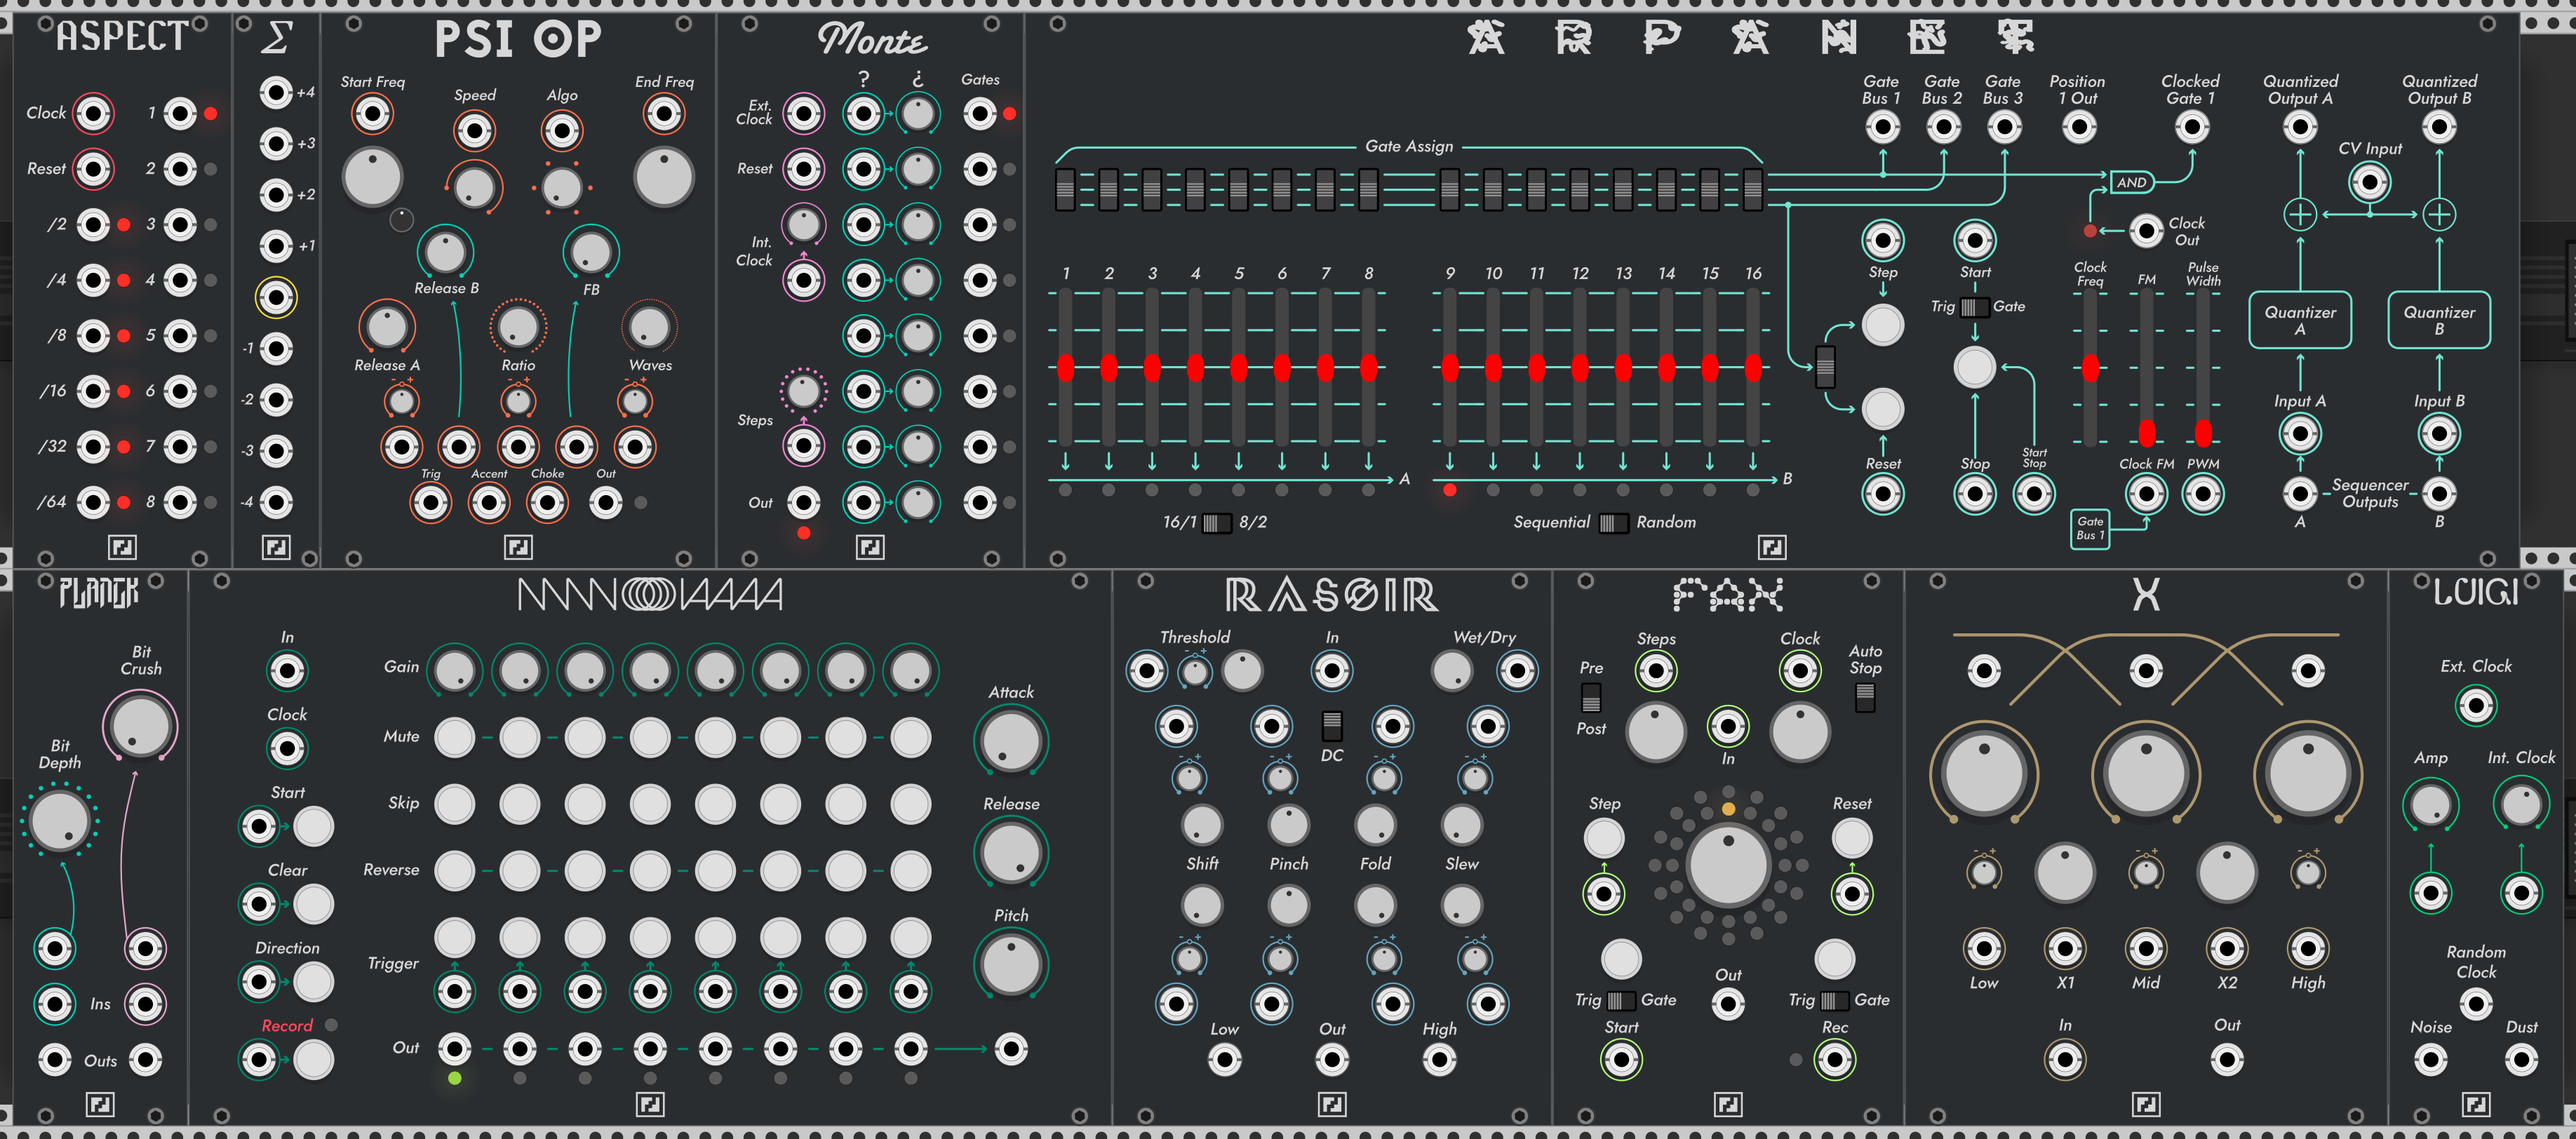
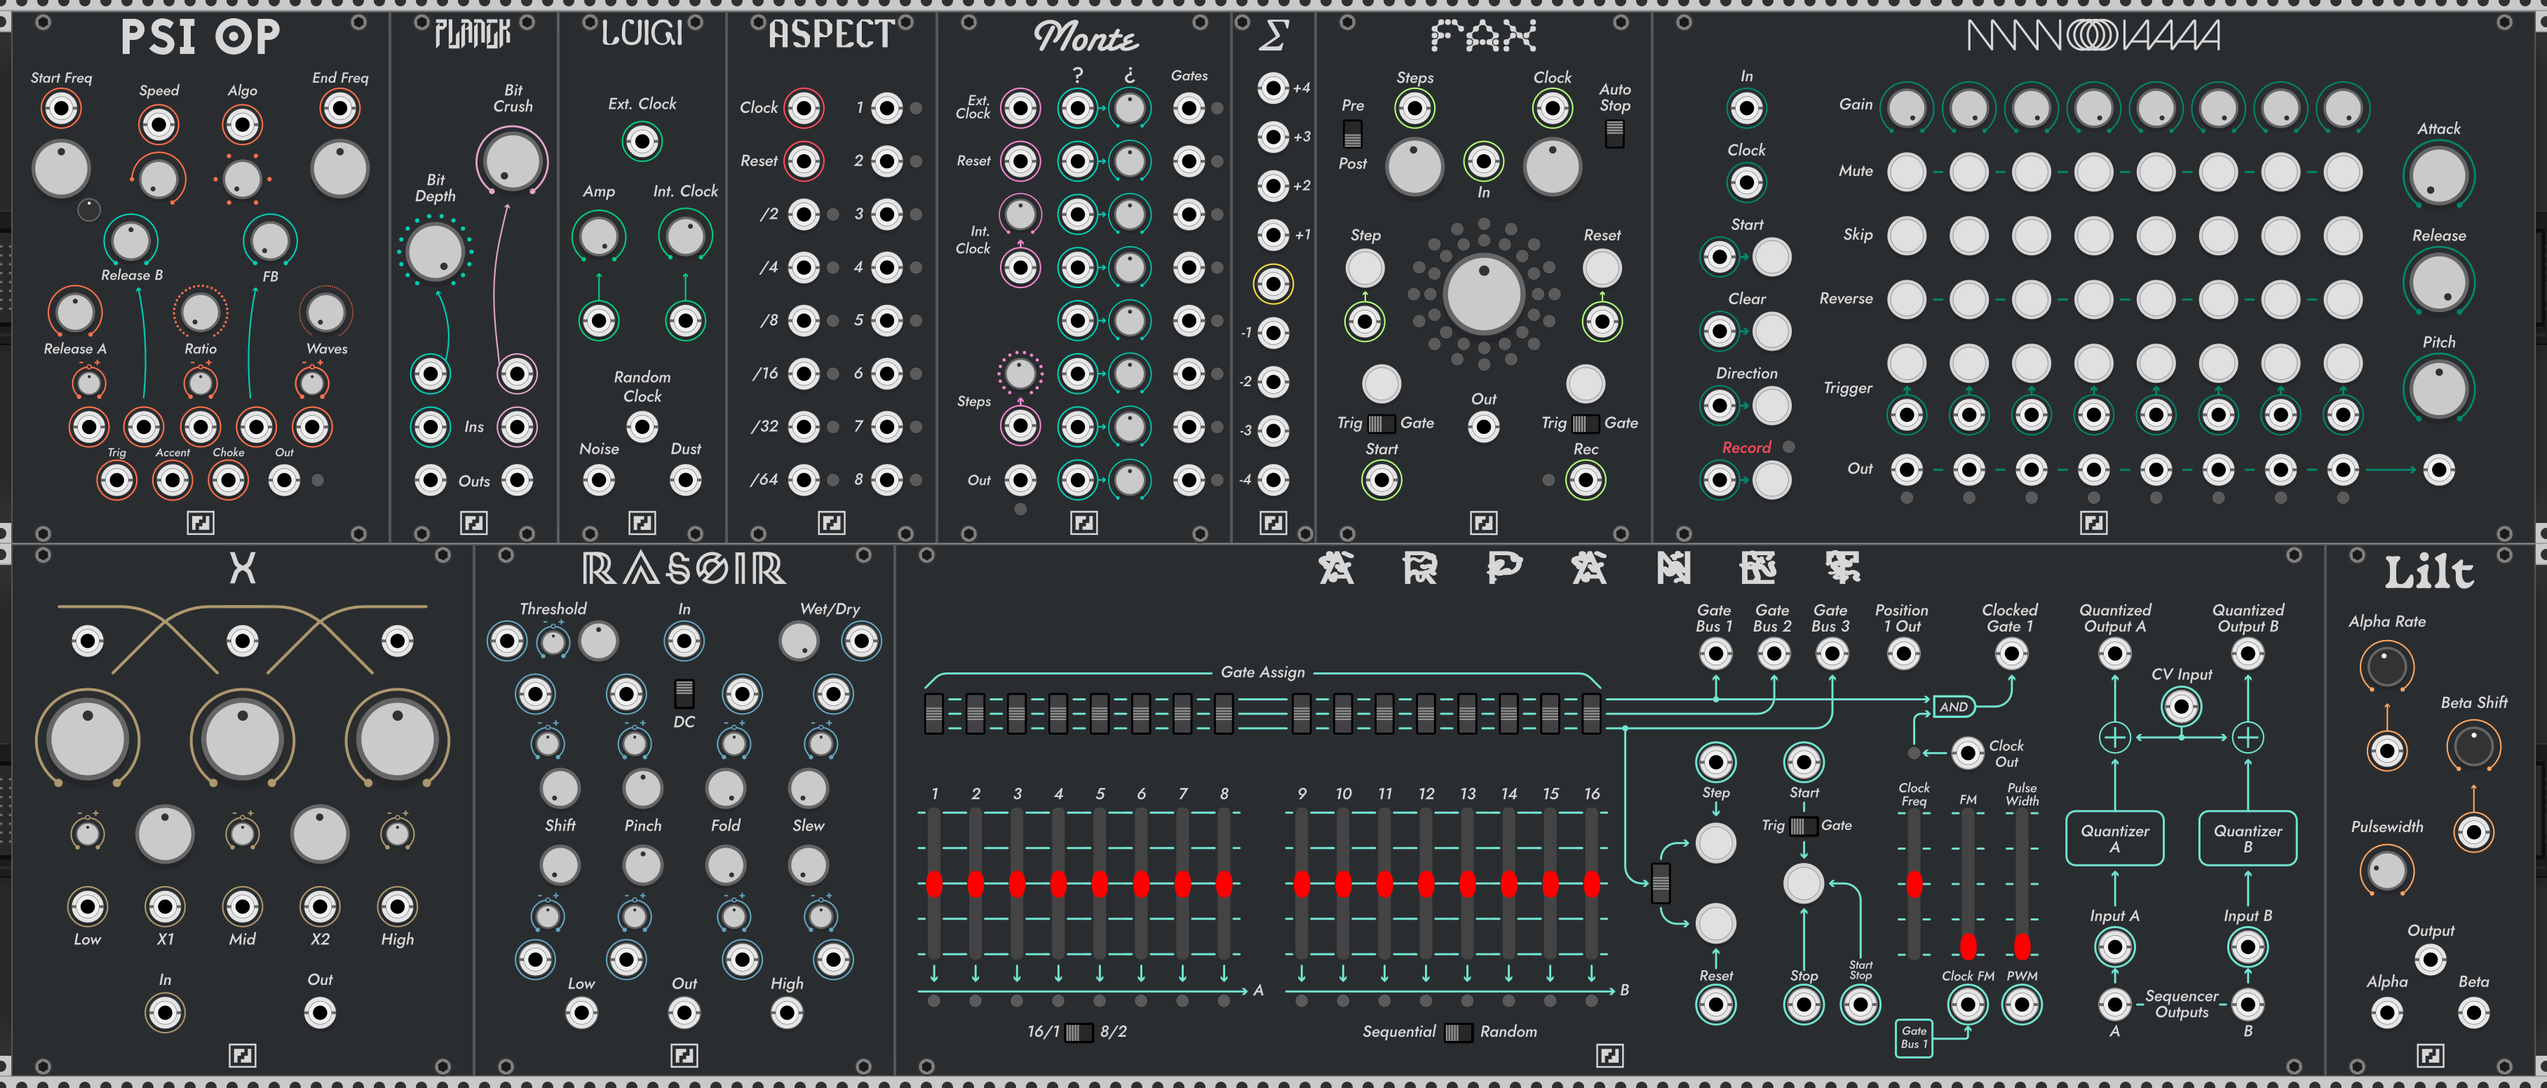
added documentation for Lilt

diff --git a/README.md b/README.md
@@ -36,6 +36,14 @@ When recording is active, the input is sampled whenever the sequencer moves to t
 
 Fax was created with physical controllers in mind. Try mapping it's big knob to a MIDI controller, or triggering the recording of a keyboards CV output using it's gate signal.
 
+## Lilt
+
+![Image of Lilt](https://github.com/RCameron93/FehlerFabrik/blob/master/docs/images/FFLilt.png)
+
+Lilt is a clock that generates a pair of coupled gates - a primary gate Alpha, and a phase-shifted copy Beta. Beta can have a phase relationship anywhere from 0˚ to 360˚ from Alpha. The pulsewidth of both gates can be adjusted. It has individual outputs for both gates as well as an OR'd output of both.
+
+Lilt is particularly well suited for creating shuffling swung grooves.
+
 ## Luigi
 
 ![Image of Luigi](https://github.com/RCameron93/FehlerFabrik/blob/master/docs/images/FFLuigi.png)
